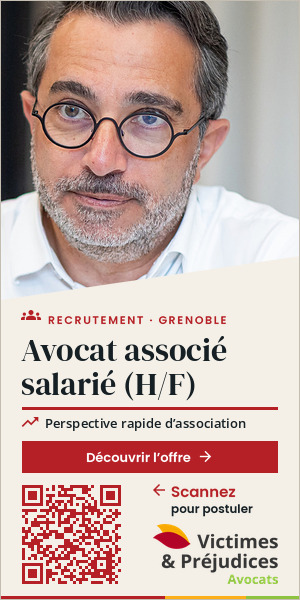
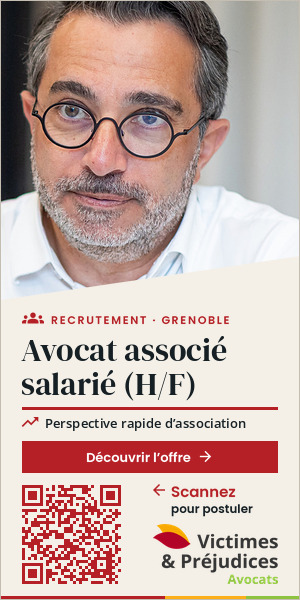
Bannière Gazette du Palais : corrections issues de la relecture
- zone claire de 12 px autour du QR code de l'offre sur toutes les
  images, volets compris : le pied crème commence sous le bouton, et la
  zone claire est contrôlée image par image
- « Scannez » du podcast en orange foncé #8C5800 (contraste 5,3:1)
- pictogrammes des étiquettes centrés sur la hauteur des capitales
- volets à 50 ms par image (20 images par seconde)
- les livrables ne sont remplacés que si tous les contrôles passent
- verifier_banniere.py : marge de lecture calculée pour chaque QR code
  sur les images qui le portent
- notice : normes des régies à vérifier, une adresse par site, durées
  et emplacements des réglages corrigés

Claude-Session: https://claude.ai/code/session_01XMLwBKWChEW44SeVGN5bvx

Changed region(s): [[0.06, 0.51, 0.48, 0.54], [0.51, 0.51, 0.78, 0.54]]

diff --git a/outils/banniere-gazette-du-palais/generer_banniere.py b/outils/banniere-gazette-du-palais/generer_banniere.py
@@ -60,7 +60,6 @@ Y_TITRE = (361, 395)
 Y_FILET = 407
 Y_ARGUMENT = 428
 Y_BOUTON, H_BOUTON = 441, 32
-Y_PIED = Y_BOUTON + H_BOUTON + 6      # haut du pied crème, commun aux deux scènes
 H_LISERE = 4
 
 # Pied : QR code à gauche (aligné sur le bouton), légende et logo à droite (logo aligné sur le bord droit
@@ -69,6 +68,10 @@ MODULE = 3                   # taille d'un module de QR code, en pixels
 ZONE_CLAIRE = 4 * MODULE     # zone claire exigée autour des modules
 COTE_QR = 33 * MODULE        # QR code de l'offre : version 4, 33 modules
 X_QR, Y_QR = X0, H - H_LISERE - ZONE_CLAIRE - COTE_QR
+# Haut du pied crème, commun aux deux scènes : il commence avec la zone claire du QR code de l'offre, juste
+# sous le bouton, pour que le volet anthracite ne la réduise jamais
+Y_PIED = Y_QR - ZONE_CLAIRE
+assert Y_PIED >= Y_BOUTON + H_BOUTON
 LARGEUR_LOGO = 125
 X_COLONNE = X1 - LARGEUR_LOGO
 
@@ -77,7 +80,7 @@ CREME = (244, 240, 231)
 ANTHRACITE = (51, 51, 51)
 ROUGE = (181, 32, 38)
 ORANGE = (252, 175, 25)
-ORANGE_TEXTE = (168, 106, 0)          # orange foncé de la charte, pour du texte sur fond clair
+ORANGE_TEXTE = (140, 88, 0)           # orange foncé, pour du texte sur crème (contraste 5,3:1)
 VERT = (142, 195, 63)
 ENCRE = (21, 31, 36)
 BLANC = (255, 255, 255)
@@ -169,10 +172,15 @@ def texte_lisse(im, x, y, texte, nom_police, taille, couleur, approche=0.0, k=4)
 
 
 def etiquette(im, code, texte, couleur):
-    """Pictogramme et capitales espacées, comme sur la 4e de couverture."""
-    ImageDraw.Draw(im).text((X0 - 1, Y_ETIQUETTE + 1), chr(code), font=police(ICONES, 20), fill=couleur,
+    """Pictogramme et capitales espacées, comme sur la 4e de couverture. Le pictogramme est centré sur la
+    hauteur des capitales, d'après l'encre du glyphe."""
+    f = police(ICONES, 22)
+    g, h, d, b = f.getbbox(chr(code), anchor="ls")
+    _, haut, _, bas = police(POPPINS, 11).getbbox("E", anchor="ls")
+    milieu_capitales = Y_ETIQUETTE + (haut + bas) / 2
+    ImageDraw.Draw(im).text((X0 - g, round(milieu_capitales - (h + b) / 2)), chr(code), font=f, fill=couleur,
                             anchor="ls")
-    texte_lisse(im, X0 + 26, Y_ETIQUETTE, texte, POPPINS, 11, couleur, approche=1.7)
+    texte_lisse(im, X0 + d - g + 7, Y_ETIQUETTE, texte, POPPINS, 11, couleur, approche=1.7)
 
 
 def titre(d, lignes):
@@ -283,30 +291,32 @@ def monter(scene, volet=None, decalage=0):
     return cadre(im)
 
 
-def volet(dessous, dessus, n=6, duree=40):
-    """Images du volet : le pan de `dessus` monte par-dessus celui de `dessous`, en ralentissant."""
+def volet(dessous, dessus, url_dessous, n=6, duree=50):
+    """Images du volet : le pan de `dessus` monte par-dessus celui de `dessous`, en ralentissant.
+    50 ms par image : 20 images par seconde, sous le plafond de 24 des régies qui suivent l'IAB."""
     course = Y_PIED - PAN_DROITE
-    return [(monter(dessous, dessus, round(course * (1 - k / (n + 1)) ** 2)), duree) for k in range(1, n + 1)]
+    return [(monter(dessous, dessus, round(course * (1 - k / (n + 1)) ** 2)), duree, url_dessous)
+            for k in range(1, n + 1)]
 
 
 def coup_de_pouce():
     """La flèche du bouton avance de 2, 4 puis 2 px."""
-    return [(monter(scene_offre(dx)), 70) for dx in (2, 4, 2)]
+    return [(monter(scene_offre(dx)), 70, URL_OFFRE) for dx in (2, 4, 2)]
 
 
 CYCLE = 9900                 # 3 lectures : 29,7 s, sous la limite usuelle de 30 s
 
 
 def images_animation():
-    """Liste de (image RGB, durée en ms) pour un cycle. La première et la dernière image sont
-    identiques : l'offre, son bouton et son QR code."""
+    """Liste de (image RGB, durée en ms, adresse du QR code affiché en pied) pour un cycle. La première
+    et la dernière image sont identiques : l'offre, son bouton et son QR code."""
     offre, podcast = scene_offre(), scene_podcast()
-    images = [(monter(offre), 1500)] + coup_de_pouce() + [(monter(offre), 1100)]
-    images += volet(offre, podcast)                         # volet anthracite : le podcast
-    images.append((monter(podcast), 2900))
-    images += volet(podcast, offre)                         # volet crème : retour à l'offre
-    images += [(monter(offre), 1000)] + coup_de_pouce()
-    images.append((monter(offre), CYCLE - sum(d for _, d in images)))
+    images = [(monter(offre), 1500, URL_OFFRE)] + coup_de_pouce() + [(monter(offre), 1100, URL_OFFRE)]
+    images += volet(offre, podcast, URL_OFFRE)              # volet anthracite : le podcast
+    images.append((monter(podcast), 2900, URL_PODCAST))
+    images += volet(podcast, offre, URL_PODCAST)            # volet crème : retour à l'offre
+    images += [(monter(offre), 1000, URL_OFFRE)] + coup_de_pouce()
+    images.append((monter(offre), CYCLE - sum(d for _, d, _ in images), URL_OFFRE))
     return images
 
 
@@ -364,7 +374,7 @@ def palettes(images, couleurs_photo=190):
     pixels_photo = np.array(PHOTO)[visible]
     p_photo = (Image.fromarray(pixels_photo.reshape(-1, 1, 3))
                .quantize(couleurs_photo, method=Image.Quantize.FASTOCTREE).getpalette()[:3 * couleurs_photo])
-    pixels = np.concatenate([np.array(im)[~visible] for im, _ in images])
+    pixels = np.concatenate([np.array(im)[~visible] for im, _, _ in images])
     exactes = np.array(COULEURS_EXACTES)
     hors_charte = ~(pixels[:, None, :] == exactes[None, :, :]).all(2).any(1)
     reste = 255 - couleurs_photo - len(COULEURS_EXACTES)
@@ -424,7 +434,7 @@ def enregistrer_gif(images, chemin):
     index_cadre = int(np.flatnonzero((couleurs == CADRE).all(1))[0])
     octets = bytes(couleurs.astype(np.uint8).flatten().tolist())
     cadres = []
-    for im, _ in images:
+    for im, _, _ in images:
         idx = np.where(visible, photo_idx, indexer(im, couleurs))
         idx[bord] = index_cadre                            # filet du cadre d'une couleur exacte, sans trame
         p = Image.fromarray(idx.astype(np.uint8), "P")
@@ -433,8 +443,9 @@ def enregistrer_gif(images, chemin):
     # Palette globale imposée (aucune renumérotation) ; optimize : dans le rectangle qui change d'une
     # image à la suivante, Pillow remplace les pixels inchangés par l'entrée transparente, qui se
     # compresse mieux. loop=2 : 2 répétitions après la première lecture, soit 3 lectures
-    cadres[0].save(chemin, save_all=True, append_images=cadres[1:], duration=[d for _, d in images],
-                   loop=2, palette=octets, optimize=True, transparency=TRANSPARENT, disposal=1)
+    cadres[0].save(chemin, format="GIF", save_all=True, append_images=cadres[1:],
+                   duration=[d for _, d, _ in images], loop=2, palette=octets, optimize=True,
+                   transparency=TRANSPARENT, disposal=1)
     premiere_image_opaque(chemin)
     return cadres
 
@@ -447,14 +458,14 @@ def relire_gif(chemin, cadres):
         relu.seek(min(i, relu.n_frames - 1))
         ok &= relu.convert("RGB").tobytes() == attendu.convert("RGB").tobytes()
     if not ok:
-        print(f"{os.path.basename(chemin)} : les images relues diffèrent des images calculées")
+        print(f"{os.path.basename(chemin).removesuffix('.tmp')} : les images relues diffèrent des images calculées")
     return ok
 
 
 def verifier(chemin):
     poids = os.path.getsize(chemin)
     statut = "OK" if poids <= POIDS_MAX else "TROP LOURD"
-    print(f"{os.path.basename(chemin)} : {poids / 1000:.0f} Ko ({statut})")
+    print(f"{os.path.basename(chemin).removesuffix('.tmp')} : {poids / 1000:.0f} Ko ({statut})")
     return poids <= POIDS_MAX
 
 
@@ -463,10 +474,19 @@ if __name__ == "__main__":
     images = images_animation()
     gif = os.path.join(SORTIE, "Banniere_300x600_animee.gif")
     jpg = os.path.join(SORTIE, "Banniere_300x600_fixe.jpg")
-    cadres = enregistrer_gif(images, gif)
-    images[-1][0].save(jpg, quality=92, subsampling=0, optimize=True)
-    ok = verifier(gif) & verifier(jpg) & relire_gif(gif, cadres) & controler_visage()
-    ok &= controler_zone_claire(scene_offre(), URL_OFFRE, "de l'offre")
-    ok &= controler_zone_claire(scene_podcast(), URL_PODCAST, "du podcast")
-    ok &= controler_zone_claire(cadres[-1].convert("RGB"), URL_OFFRE, "de l'offre (dernière image du GIF)")
+    # Fichiers écrits sous un nom provisoire : ils ne remplacent les livrables que si tous les contrôles
+    # passent
+    gif_tmp, jpg_tmp = gif + ".tmp", jpg + ".tmp"
+    cadres = enregistrer_gif(images, gif_tmp)
+    images[-1][0].save(jpg_tmp, format="JPEG", quality=92, subsampling=0, optimize=True)
+    ok = verifier(gif_tmp) & verifier(jpg_tmp) & relire_gif(gif_tmp, cadres) & controler_visage()
+    for i, ((_, _, url), cadre_gif) in enumerate(zip(images, cadres)):
+        ok &= controler_zone_claire(cadre_gif.convert("RGB"), url, f"de l'image {i} du GIF")
+    if ok:
+        os.replace(gif_tmp, gif)
+        os.replace(jpg_tmp, jpg)
+    else:
+        os.remove(gif_tmp)
+        os.remove(jpg_tmp)
+        print("Contrôles en échec : les fichiers précédents sont conservés")
     sys.exit(0 if ok else 1)

diff --git a/outils/banniere-gazette-du-palais/verifier_banniere.py b/outils/banniere-gazette-du-palais/verifier_banniere.py
@@ -4,7 +4,8 @@ Usage : python3 -I verifier_banniere.py <banniere.gif> <banniere.jpg> <dossier_r
 
 Vérifie : dimensions, poids (<= 150 000 octets), boucle et durée totale (<= 30 s), concordance de la
 dernière image du GIF avec le JPEG, et la lecture des QR codes sur chaque image distincte, à l'échelle 1
-et dans trois simulations de prise de vue au téléphone (flou, rotation, reflet, distance).
+et dans trois simulations de prise de vue au téléphone (flou, rotation, reflet, distance). Pour chaque
+code, la « marge » compte les conditions dures (sur 3) dans lesquelles il reste lu.
 Produit dans <dossier_rapport> : planche.png (scènes tenues >= 1 s, à l'échelle 1), final_x2.png
 (dernière image agrandie 2 fois, pixels nets) et rapport.json.
 """
@@ -96,7 +97,15 @@ derniere = qr[distincts[-1]] if distincts[-1] == len(images) - 1 else qr[vus[ima
 rep["qr_derniere_image"] = derniere
 rep["qr_jpeg"] = {nom: lire(v) for nom, v in simulations(jpg)}
 rep["qr_jpeg_conditions_dures"] = {nom: lire(v) for nom, v in simulations_exigeantes(jpg)}
-rep["marge_qr_jpeg"] = {u: sum(u in v for v in rep["qr_jpeg_conditions_dures"].values()) for u in attendues}
+# Marge = nombre de conditions dures (sur 3) dans lesquelles le code reste lu ; seulement pour les codes
+# présents, sur le JPEG d'une part, sur les images tenues du GIF qui les portent d'autre part
+rep["marge_qr_jpeg"] = {u: sum(u in v for v in rep["qr_jpeg_conditions_dures"].values())
+                        for u in attendues if u in rep["qr_jpeg"]["ecran_1x"]}
+rep["marge_qr_images_tenues"] = {}
+for url in attendues:
+    porteuses = [i for i in distincts if durees[i] >= 1000 and url in qr[i]["ecran_1x"]]
+    rep["marge_qr_images_tenues"][url] = max(
+        (sum(url in lire(v) for _, v in simulations_exigeantes(images[i])) for i in porteuses), default=0)
 for url in attendues[:1]:
     if not all(url in v for v in rep["qr_jpeg"].values()):
         err(f"QR {url} : pas lisible dans toutes les simulations sur le JPEG")

diff --git a/outils/banniere-gazette-du-palais/README.md b/outils/banniere-gazette-du-palais/README.md
@@ -25,16 +25,19 @@ https://www.victimesetprejudices.fr/recrutements/avocat-associe-salarie/?utm_sou
 - **Paramètres `utm_` :** ils permettent de compter, dans Google Analytics, les visites venues de la
   bannière. Ils ne changent rien à l'affichage de la page. Si le site n'a pas d'outil de mesure, donnez
   l'adresse sans eux : `https://www.victimesetprejudices.fr/recrutements/avocat-associe-salarie/`.
+- **Une adresse par site, si la régie l'accepte :** avec une adresse unique, toutes les visites sont comptées
+  sous « gazette-du-palais », quel que soit le site. Pour savoir quel site amène des candidats, donnez une
+  adresse par site en remplaçant la valeur de `utm_source` par `defrenois` ou `actu-juridique`.
 - **Avant l'envoi :** vérifiez que la page s'ouvre bien.
 
 ## Contenu
 
-- **L'offre d'abord :** la bannière s'ouvre et se termine sur l'offre. Le bouton « Découvrir l'offre → »
+- **L'offre d'abord :** la bannière s'ouvre et se termine sur l'offre. Le bouton « Découvrir l’offre → »
   reste affiché sur toutes les images, puisque le clic mène toujours à l'offre.
 - **Étiquette « RECRUTEMENT · GRENOBLE » :** la Gazette du Palais est lue dans toute la France ; le lieu du
   poste, repris de l'offre, évite des clics de candidats qui ne pourraient pas s'y installer. Pour le
   retirer, modifiez l'étiquette dans `scene_offre()`.
-- **Argument :** « Perspective rapide d'association », repris de l'offre (« Ce poste est créé dans une
+- **Argument :** « Perspective rapide d’association », repris de l'offre (« Ce poste est créé dans une
   perspective rapide d'association »).
 - **Podcast :** un intermède de 2,9 s, avec son propre QR code.
 
@@ -54,7 +57,8 @@ logo à droite.
 - **Taille :** chaque module (petit carré) fait 3 px exactement, soit un QR code de 99 px (offre) ou 87 px
   (podcast). À 2 px, les codes n'étaient plus lus dans les prises de vue difficiles.
 - **Lisibilité :**
-  - modules posés au pixel près, foncés sur fond clair, avec 12 px de zone claire tout autour ;
+  - modules posés au pixel près, foncés sur fond clair, avec 12 px de zone claire tout autour, sur toutes
+    les images, transitions comprises ;
   - les deux codes sont lus dans des prises de vue simulées au téléphone : flou, bruit, reflet, rotation,
     distance, y compris dans les conditions les plus dures.
 - **Adresses sans paramètres `utm_` :** des adresses plus courtes donnent des QR codes moins denses, donc plus
@@ -65,31 +69,48 @@ logo à droite.
 
 | Temps | Scène |
 |---|---|
-| 0 – 2,8 s | **Offre**, sur pan crème : « Avocat associé salarié (H/F) », « Perspective rapide d'association », bouton et QR code de l'offre. À 1,5 s, la flèche du bouton avance brièvement. |
-| 2,8 – 3,0 s | Un volet anthracite monte sur le pan ; le bouton reste en place. |
-| 3,0 – 5,9 s | **Podcast** : « Hervé Gerbi *raconte* », « Histoires vraies d'un avocat de victimes » et QR code du podcast. |
-| 5,9 – 6,2 s | Le volet crème revient. |
-| 6,2 – 9,9 s | **Offre**, identique à la première image. À 7,2 s, la flèche avance de nouveau. |
+| 0 – 2,8 s | **Offre**, sur pan crème : « Avocat associé salarié (H/F) », « Perspective rapide d’association », bouton et QR code de l'offre. À 1,5 s, la flèche du bouton avance brièvement. |
+| 2,8 – 3,1 s | Un volet anthracite monte sur le pan ; le bouton reste en place. |
+| 3,1 – 6,0 s | **Podcast** : « Hervé Gerbi *raconte* », « Histoires vraies d’un avocat de victimes » et QR code du podcast. |
+| 6,0 – 6,3 s | Le volet crème revient. |
+| 6,3 – 9,9 s | **Offre**, identique à la première image. À 7,3 s, la flèche avance de nouveau. |
 
-Le cycle de 9,9 s est joué 3 fois, soit 29,7 s, sous la durée maximale usuelle des régies (30 s). La
-bannière s'arrête ensuite sur l'offre. La version fixe reprend cette image.
+Le cycle de 9,9 s est joué 3 fois, soit 29,7 s. La bannière s'arrête ensuite sur l'offre. La version fixe
+reprend cette image.
+
+## Normes des régies : à vérifier avant l'envoi
+
+Le brief fixe le format, le poids et les types de fichiers, mais pas la durée ni la cadence de l'animation.
+La bannière suit les règles les plus courantes :
+- **Durée :** 30 s au plus, arrêt sur une image fixe ;
+- **Cadence :** 20 images par seconde au plus (volets de 50 ms par image), sous le plafond de 24 de l'IAB.
+
+Demandez la fiche technique de la régie. Deux cas imposeraient une variante, que le script produit en
+modifiant quelques durées :
+- **limite de 15 s** (certaines fiches inspirées de l'IAB) : un cycle joué une seule fois, ou deux cycles
+  plus courts ;
+- **plus de 200 ms par image** (règle de Google Ads pour les GIF) : des transitions sans volet ni
+  mouvement de flèche.
 
 ## Reprise de la 4e de couverture
 
 - **Photo :** le portrait d'Hervé Gerbi est extrait du visuel fourni et recadré serré sur le visage (le haut
   des cheveux est coupé, pour faire place au pied). Le pan reste à au moins 14 px du visage.
 - **Pan coupé en diagonale :** il reprend le pan crème du bloc recrutement.
-- **Titres :** DM Serif Display, la police du visuel, avec le filet rouge sous le titre. « raconte » est en
-  italique orange.
+- **Titres :** DM Serif Display, la police du visuel, avec un filet sous le titre (rouge pour l'offre,
+  orange pour le podcast). « raconte » est en italique orange.
 - **Étiquettes :** « RECRUTEMENT · GRENOBLE » et « PODCAST » en Poppins SemiBold, avec un espacement des
   lettres et un pictogramme (groupe, casque).
 - **Couleurs relevées sur le visuel :**
   - crème `#F4F0E7` ;
   - rouge `#B52026` ;
-  - orange `#FCAF19` (orange foncé `#A86A00` pour du texte sur crème) ;
+  - orange `#FCAF19` ;
   - vert `#8EC33F` ;
   - anthracite `#333333` ;
   - encre des titres `#151F24`.
+
+  S'y ajoute un orange foncé, `#8C5800`, absent du visuel : il sert au mot « Scannez » du podcast, sur
+  crème, où l'orange de la charte ne serait pas assez contrasté (contraste de 5,3:1).
 - **Logo :** 125 px de large, en pied de chaque scène.
 - **Liseré tricolore :** il ferme la bannière, comme sur les autres supports du cabinet.
 - **Filet gris de 1 px :** il entoure la bannière, pour la détacher des pages blanches des sites.
@@ -117,8 +138,12 @@ python3 -I verifier_banniere.py Banniere_300x600_animee.gif Banniere_300x600_fix
   - la lecture des QR codes à l'écran et dans des prises de vue simulées.
 
   Il produit aussi, dans le dossier `controle`, une planche des scènes et un rapport.
-- **Modifier la bannière :** les textes, les durées des scènes et la grille se modifient en tête de
-  `generer_banniere.py` et dans ses fonctions `scene_*`.
+- **Modifier la bannière (`generer_banniere.py`) :**
+  - les textes : dans `scene_offre()`, `scene_podcast()`, `bouton()` et `pied()` ;
+  - les durées : dans `images_animation()`, `coup_de_pouce()`, `volet()` et `CYCLE` ;
+  - la grille et les couleurs : en tête du script.
+- **Fichiers en cas d'échec :** le script écrit d'abord sous un nom provisoire. Si un contrôle échoue, les
+  fichiers précédents sont conservés.
 
 **Ressources :**
 - `ressources/photo_herve_gerbi.jpg` est extraite du PDF de la 4e de couverture ;
